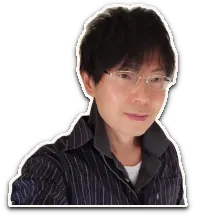
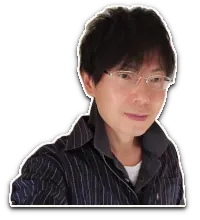
誕生秘話とあとがきを更新

diff --git a/00/pr_026_11.html b/00/pr_026_11.html
@@ -99,7 +99,7 @@
 
     <div><p class="先頭装飾 拡大 ▼" style="--待機: 0.2s;"
             data-sw = "0.2"
-            data-se = "../se/haretu_l.mp3"
+            data-se = "../se/haretu_h.mp3"
             data-sv = "0.1">
             宇宙よろず相談室が生まれたのは、ある意味必然といえます。<br>
             なぜなら、私が「<em>生まれついてワクワクする要素</em>」を詰め込んで、自分固有の周波数そのままに表現しているだけだから😍<span class="発光">✨</span>
@@ -107,9 +107,9 @@
 
     <div><p class="拡大 ▼" style="--待機: 0.4s;"
             data-sw = "0.4"
-            data-se = "../se/haretu_l.mp3"
+            data-se = "../se/kodutumi.mp3"
             data-sv = "0.1">
-            子供の頃から、関心を持った分野を数年間遊び尽くすと満足して飽きる、を繰り返していた私が、何十年味わい尽くしても無限に飽きないのが「<ruby><em>霊性</em><rt>スピリチュアリティ</rt></ruby>」の分野です。
+            子供の頃から、関心を持った分野を数年間遊び尽くして満足すると飽きる、を繰り返していた私が、何十年味わい尽くしても無限に飽きないのが「<ruby><em class="大字">霊性</em><rt>スピリチュアリティ</rt></ruby>」の分野です。
     </p></div>
 
     <div><p class="拡大 ▼" style="--待機: 0.6s;"
@@ -117,12 +117,12 @@
             data-se = "../se/haretu_l.mp3"
             data-sv = "0.1">
             私が今回地球にやって来た人生のテーマと大きな関係があると思われます。<br>
-            <span class="小字 銀 出現 ▼" style="--時間: 2s;">（かつて、あらゆる古典から宗教・思想・チャネリングまで、むさぼり読み尽くしました📚）</span>
+            <span class="小字 銀 出現 ▼" style="--時間: 2s;">（かつて、あらゆる古典から宗教・思想・チャネリングまで、むさぼるように読み尽くしました📚）</span>
     </p></div>
 
     <div><p class="拡大 ▼ 改幅5" style="--待機: 0.8s;"
             data-sw = "0.8"
-            data-se = "../se/haretu_l.mp3"
+            data-se = "../se/haretu_h.mp3"
             data-sv = "0.1">
             内側で爆発しているエネルギーを形として表現できることは、本当に幸せです<span class="発光">🌟</span><br>
             掘れば掘るほど、未だ知らない自分を発見し、新鮮な喜びを感じます。<br>
@@ -136,7 +136,7 @@
 
     <div><p class="先頭装飾 拡大 ▼" style="--待機: 0.2s;"
             data-sw = "0.2"
-            data-se = "../se/haretu_l.mp3"
+            data-se = "../se/haretu_h.mp3"
             data-sv = "0.1">
             とにかく「<em>表現すること</em>」が大好きで、それを子供の時に強く自覚したのは、図画工作✂とコンピュータープログラム🖥<br>
             特にプログラムを組んでゲームを作り、自分の思い通りの世界観を表現することは、寝食を忘れるほど没頭していたものです。
@@ -153,9 +153,9 @@
 
     <div><p class="拡大 ▼" style="--待機: 0.6s;"
             data-sw = "0.6"
-            data-se = "../se/haretu_l.mp3"
+            data-se = "../se/tameiki_s.mp3"
             data-sv = "0.1">
-            十数年に及ぶ自己啓発の執筆や書評やウェブサイト（Dr.YOU とユニちゃんの元ネタ）の運営終了をきっかけに、そこから十数年、まったくなじめない地球の集合意識（有限と恐れの同意を基にした社会体系）と共に生きる期間に入ります。
+            十数年に及ぶ自己啓発の執筆や書評やウェブサイト<span class="小字"> ( Dr.YOU とユニちゃんの元ネタ) </span>の運営終了をきっかけに、そこから十数年、まったくなじめない地球の集合意識<span class="小字"> (有限と恐れの同意を基にした社会体系) </span>と共に生きる期間に入ります。
     </p></div>
 
     <div><p class="拡大 ▼ 改幅5" style="--待機: 0.8s;"
@@ -172,7 +172,7 @@
 
     <div><p class="先頭装飾 拡大 ▼" style="--待機: 0.2s;"
             data-sw = "0.2"
-            data-se = "../se/haretu_l.mp3"
+            data-se = "../se/haretu_h.mp3"
             data-sv = "0.1">
             こうして長い期間をかけて、今では確固たる自分らしさを確立しながら、同時に地球人の悩みや苦しみも理解する私が出来上がったわけです。<br>
             <span class="小字 銀 出現 ▼" style="--時間: 2s;">（ちなみに、こういう魂は1945年頃から地球規模で増加しているので、もしかしたら、じつはあなたやあなたの隣人もそうかも？🌏）</span>
@@ -180,16 +180,16 @@
 
     <div><p class="拡大 ▼" style="--待機: 0.4s;"
             data-sw = "0.4"
-            data-se = "../se/haretu_l.mp3"
+            data-se = "../se/danryoku_l.mp3"
             data-sv = "0.1">
-            ただ、真面目なスピリチュアルコンテンツは古いものから新しいものまで山ほどありますが、今ではあまり見る気がしなくて…🥱<span class="小字">ﾌﾜｧ</span>
+            ただ、スピリチュアル・コンテンツは古いものから新しいものまで山ほどありますが、もうありきたりなものでは満足できなくて…🥱<span class="小字">ﾌﾜｧ</span>
     </p></div>
 
     <div><p class="拡大 ▼ 改幅5" style="--待機: 0.6s;"
             data-sw = "0.6"
-            data-se = "../se/haretu_l.mp3"
+            data-se = "../se/kodutumi.mp3"
             data-sv = "0.1">
-            それなら、「<em>100%自分好み</em>」なこだわりコンテンツを作れば、そのプロセスを無限に楽しめるぞ！🤩 という着想に至ったわけです<span class="発光">💡</span>
+            それなら、100%自分好みなお笑いコンテンツを作れば、このプロセスを無限に楽しめるぞ！🤩 という着想に至ったわけです<span class="発光">💡</span>
     </p></div>
 
     <div class="画像">
@@ -199,9 +199,9 @@
 
     <div><p class="先頭装飾 拡大 ▼" style="--待機: 0.2s;"
             data-sw = "0.2"
-            data-se = "../se/haretu_l.mp3"
+            data-se = "../se/haretu_h.mp3"
             data-sv = "0.1">
-            インターネットコンテンツは今や動画全盛の時代ですが、大好きなウェブサイト制作の世界に十数年ぶりに帰ってきて、その技術がじつはすごい進歩を遂げていることを知って、ワクワクしています！<br>
+            インターネット・コンテンツは今や動画全盛の時代ですが、大好きなウェブサイト制作の世界に十数年ぶりに帰ってきて、その表現技術がじつはすごい進歩を遂げていることを知って、ワクワクしています！<br>
             下手な絵を描くのも久しぶり😁
     </p></div>
 
@@ -214,18 +214,22 @@
 
     <div><p class="拡大 ▼ 改幅5" style="--待機: 0.6s;"
             data-sw = "0.6"
-            data-se = "../se/haretu_l.mp3"
+            data-se = "../se/haretu_h.mp3"
             data-sv = "0.1">
             あなたにも一緒に彼らを可愛がってもらえると、心より嬉しいです‼‼‼
     </p></div>
 
-    <div class="画像 発光 出現 ▼"
+    <div class="画像 発光 出現 ▼" style="max-width: calc(310px + (var(--画像サイズ, 4) * 10px));"
         data-th = "0.5"
         data-se = "../se/moso.mp3">
         <img src="../pc/pr_026_11.webp" alt="秋の公園を散策">
+        <img src="../pc/pr_026_11_dc.webp" alt="🥸"
+            class="差分 出現 ▼" style="--待機: 0.4s; max-width: calc(123px + (var(--画像サイズ, 4) * 3px)); left: 0;">
+        <img src="../pc/pr_026_11_un.webp" alt="🐰"
+            class="差分 出現 ▼" style="--待機: 0.6s; max-width: calc(123px + (var(--画像サイズ, 4) * 3px)); left: 15%; top: 30%;">
     </div>
 
-    <p class="右寄 小字 銀 出現 ▼ 改幅100">2026年11月 近影</p>
+    <p class="右寄 極小 銀 出現 ▼ 改幅100" style="max-width: calc(310px + (var(--画像サイズ, 4) * 10px));">2026年11月 近影</p>
 
 
     <div class="夜景"></div>

diff --git a/00/oa_001_03.html b/00/oa_001_03.html
@@ -93,7 +93,7 @@
             data-sw = "0.2"
             data-se = "../se/slide_h.mp3"
             data-sv = "0.2">
-            というわけで、「宇宙よろず相談室」、最後まで見て（聴いて）いただき、ありがとうございました‼‼‼
+            というわけで、「宇宙よろず相談室」、最後まで見て(聴いて)いただき、ありがとうございました‼‼‼
     </p></div>
 
     <div><p class="横滑 ▼" style="--待機: 0.4s; --方向: -1;"
@@ -119,18 +119,18 @@
             data-se = "../se/slide_l.mp3"
             data-sv = "0.2">
             まず、ON AIR #001 が生まれたきっかけをば。<br>
-            <span class="小字 銀 出現 ▼" style="--時間: 2s;">（本作全体のきっかけについては、<a href="pr_026_11.html" class="金 下線">UNI-CH、誕生秘話</a> をご覧ください）</span>
+            <span class="小字 銀 出現 ▼" style="--時間: 2s;">（本作全体のきっかけについては、🎉<a href="pr_026_11.html" class="金 下線">UNI-CH、誕生秘話</a> をご覧ください）</span>
     </p></div>
 
     <div><p class="横滑 ▼" style="--待機: 0.2s; --方向: -1;"
             data-sw = "0.2"
             data-se = "../se/slide_l.mp3"
             data-sv = "0.2">
-            私の創作手順では、まず始めに「キャラクター」を作ります。<br>
-            作者の意思とは無関係に自由に動きしゃべるキャラクター（周波数）を。
+            私の創作手順では、まず始めに「キャラクター」を決めます。<br>
+            作者の意思とは無関係に自由に動きしゃべるキャラクター<span class="小字">(周波数)</span>を。
     </p></div>
 
-    <div><p class="横滑 ▼ 改幅5" style="--待機: 0.4s;"
+    <div><p class="横滑 ▼" style="--待機: 0.4s;"
             data-sw = "0.4"
             data-se = "../se/slide_l.mp3"
             data-sv = "0.2">
@@ -141,14 +141,17 @@
         <div class="👤" style="position: relative;">
             <div class="キャラ画像 身体_縦伸" style="--サイズ: -8%; --被り幅: -5px;">
                 <img src="../ch/kk_026_11.webp" alt="👤">
+                <img src="../ch/ut_sabun_denkyu.webp" alt="💡" class="差分 発射" style="--起点: 50% 50%; margin: -20% 0 0 15%;">
             </div>
 
             <img src="../pc/tomo_kou.jpg" alt="ともしび仙人とこうじうさぎ"
-                class="出現 ▼" style="--待機: 2s; --時間: 3s; --透明度: 0.6; position: absolute; top: -60px; right: 0;">
+                class="出現 ▼" style="--待機: 3s; --時間: 3s; --透明度: 0.6; position: absolute; top: -25px; right: 0; max-width: calc(30% + (var(--画像サイズ, 4) * 2%));"
+                data-sw = "3"
+                data-se = "../se/moso.mp3">
 
             <div class  = "💬 感情 小字" style="--左尻尾: 0px;"
                 data-vv = "0.5"
-                data-se = "../se/moso.mp3">
+                data-se = "../se/hirameki.mp3">
                 むか〜し<br>書いていて楽しかった「とも◯び仙人」というエッチでおバカなキャラクターがいたな…<br>
                 よし、セルフ・オマージュしよう！<br>
                 うん、今回は形而上学者のオタク廃人とか、めっちゃ楽しそーだぞ♪
@@ -172,12 +175,15 @@
             ユニちゃん社長がうさぎの着ぐるみを着ているのも、と◯しび仙人の相方がうさぎだったからという、ただそれだけの理由🤭
     </p></div>
 
+    <p style="padding: 0;">
+        <img src="../pc/dc_001_02.webp" alt="Dr.YOU 初描き" align="right"
+            class="出現 ▼" style="--待機: 1s; --透明度: 0.5; margin: -2rem 0 -2rem -2rem; max-width: calc(30% + (var(--画像サイズ, 4) * 2%));">
+    </p>
+
     <div><p class="横滑 ▼" style="--待機: 0.4s;"
             data-sw = "0.4"
             data-se = "../se/slide_l.mp3"
             data-sv = "0.2">
-            <img src="../pc/dc_001_02.webp" alt="Dr.YOU 初描き" align="right"
-                class="出現 ▼" style="--待機: 1s; --時間: 1s; --透明度: 0.6; margin: -2rem 0 0 1rem;">
             ひょいと Dr.YOU のデザインを試し描きしたら、なんか勝手に「萌えフィギュア」を持っていたので、自動的に今回の「偶像崇拝」というテーマが生まれました。
     </p></div>
 
@@ -197,21 +203,21 @@
     <div><p class="先頭装飾 横滑 ▼"
             data-se = "../se/slide_m.mp3"
             data-sv = "0.2">
-            今後も基本的に1話完結方式で、それを全話無料で配信します。
+            今後も基本的に１話完結方式で、それを<em>全話無料</em>で配信します。
     </p></div>
 
     <div><p class="横滑 ▼" style="--待機: 0.2s; --方向: -1;"
             data-sw = "0.2"
             data-se = "../se/slide_l.mp3"
             data-sv = "0.2">
-            「じゃあ、継続していくための収益はどーするの？」と思われるかもしれませんが、毎回番外編として「<em>配信後の楽屋裏</em>（有料）」を用意します。
+            「じゃあ、コンテンツを継続していくための収益はどーするの？」と思われるかもしれませんが、毎回番外編として「<em>配信後の楽屋裏</em> (有料)」を用意します。
     </p></div>
 
     <div><p class="横滑 ▼" style="--待機: 0.4s;"
             data-sw = "0.4"
             data-se = "../se/slide_l.mp3"
             data-sv = "0.2">
-            楽屋裏は、「本配信を気に入ってくださった方向けのファンサービス」として、ユル〜いお遊び的な位置づけです。
+            楽屋裏は、「本配信を気に入ってくださったかた向けのファンサービス」として、ユル〜いお遊び的な位置づけです。
     </p></div>
 
     <div><p class="横滑 ▼ 改幅5" style="--待機: 0.6s; --方向: -1;"

diff --git a/00/oa_001_02.html b/00/oa_001_02.html
@@ -301,7 +301,7 @@
             data-sw = "0.2"
             data-se = "../se/slide_h.mp3"
             data-sv = "0.2">
-            というわけで、「宇宙よろず相談室」、最後まで見て（聴いて）いただき、ありがとうございました‼‼‼
+            というわけで、「宇宙よろず相談室」、最後まで見て(聴いて)いただき、ありがとうございました‼‼‼
     </p></div>
 
     <div><p class="横滑 ▼" style="--待機: 0.4s; --方向: -1;"
@@ -327,18 +327,18 @@
             data-se = "../se/slide_l.mp3"
             data-sv = "0.2">
             まず、ON AIR #001 が生まれたきっかけをば。<br>
-            <span class="小字 銀 出現 ▼" style="--時間: 2s;">（本作全体のきっかけについては、<a href="pr_026_11.html" class="金 下線">UNI-CH、誕生秘話</a> をご覧ください）</span>
+            <span class="小字 銀 出現 ▼" style="--時間: 2s;">（本作全体のきっかけについては、🎉<a href="pr_026_11.html" class="金 下線">UNI-CH、誕生秘話</a> をご覧ください）</span>
     </p></div>
 
     <div><p class="横滑 ▼" style="--待機: 0.2s; --方向: -1;"
             data-sw = "0.2"
             data-se = "../se/slide_l.mp3"
             data-sv = "0.2">
-            私の創作手順では、まず始めに「キャラクター」を作ります。<br>
-            作者の意思とは無関係に自由に動きしゃべるキャラクター(周波数)を。
+            私の創作手順では、まず始めに「キャラクター」を決めます。<br>
+            作者の意思とは無関係に自由に動きしゃべるキャラクター<span class="小字">(周波数)</span>を。
     </p></div>
 
-    <div><p class="横滑 ▼ 改幅5" style="--待機: 0.4s;"
+    <div><p class="横滑 ▼" style="--待機: 0.4s;"
             data-sw = "0.4"
             data-se = "../se/slide_l.mp3"
             data-sv = "0.2">
@@ -349,14 +349,17 @@
         <div class="👤" style="position: relative;">
             <div class="キャラ画像 身体_縦伸" style="--サイズ: -8%; --被り幅: -5px;">
                 <img src="../ch/kk_026_11.webp" alt="👤">
+                <img src="../ch/ut_sabun_denkyu.webp" alt="💡" class="差分 発射" style="--起点: 50% 50%; margin: -20% 0 0 15%;">
             </div>
 
             <img src="../pc/tomo_kou.jpg" alt="ともしび仙人とこうじうさぎ"
-                class="出現 ▼" style="--待機: 2s; --時間: 3s; --透明度: 0.6; position: absolute; top: -60px; right: 0;">
+                class="出現 ▼" style="--待機: 3s; --時間: 3s; --透明度: 0.6; position: absolute; top: -25px; right: 0; max-width: calc(30% + (var(--画像サイズ, 4) * 2%));"
+                data-sw = "3"
+                data-se = "../se/moso.mp3">
 
             <div class  = "💬 感情 小字" style="--左尻尾: 0px;"
                 data-vv = "0.5"
-                data-se = "../se/moso.mp3">
+                data-se = "../se/hirameki.mp3">
                 むか〜し<br>書いていて楽しかった「とも◯び仙人」というエッチでおバカなキャラクターがいたな…<br>
                 よし、セルフ・オマージュしよう！<br>
                 うん、今回は形而上学者のオタク廃人とか、めっちゃ楽しそーだぞ♪
@@ -380,12 +383,15 @@
             ユニちゃん社長がうさぎの着ぐるみを着ているのも、と◯しび仙人の相方がうさぎだったからという、ただそれだけの理由🤭
     </p></div>
 
+    <p style="padding: 0;">
+        <img src="../pc/dc_001_02.webp" alt="Dr.YOU 初描き" align="right"
+            class="出現 ▼" style="--待機: 1s; --透明度: 0.5; margin: -2rem 0 -2rem -2rem; max-width: calc(30% + (var(--画像サイズ, 4) * 2%));">
+    </p>
+
     <div><p class="横滑 ▼" style="--待機: 0.4s;"
             data-sw = "0.4"
             data-se = "../se/slide_l.mp3"
             data-sv = "0.2">
-            <img src="../pc/dc_001_02.webp" alt="Dr.YOU 初描き" align="right"
-                class="出現 ▼" style="--待機: 1s; --時間: 1s; --透明度: 0.6; margin: -2rem 0 0 1rem;">
             ひょいと Dr.YOU のデザインを試し描きしたら、なんか勝手に「萌えフィギュア」を持っていたので、自動的に今回の「偶像崇拝」というテーマが生まれました。
     </p></div>
 
@@ -405,21 +411,21 @@
     <div><p class="先頭装飾 横滑 ▼"
             data-se = "../se/slide_m.mp3"
             data-sv = "0.2">
-            今後も基本的に1話完結方式で、それを全話無料で配信します。
+            今後も基本的に１話完結方式で、それを<em>全話無料</em>で配信します。
     </p></div>
 
     <div><p class="横滑 ▼" style="--待機: 0.2s; --方向: -1;"
             data-sw = "0.2"
             data-se = "../se/slide_l.mp3"
             data-sv = "0.2">
-            「じゃあ、継続していくための収益はどーするの？」と思われるかもしれませんが、毎回番外編として「<em>配信後の楽屋裏</em> (有料)」を用意します。
+            「じゃあ、コンテンツを継続していくための収益はどーするの？」と思われるかもしれませんが、毎回番外編として「<em>配信後の楽屋裏</em> (有料)」を用意します。
     </p></div>
 
     <div><p class="横滑 ▼" style="--待機: 0.4s;"
             data-sw = "0.4"
             data-se = "../se/slide_l.mp3"
             data-sv = "0.2">
-            楽屋裏は、「本配信を気に入ってくださった方向けのファンサービス」として、ユル〜いお遊び的な位置づけです。
+            楽屋裏は、「本配信を気に入ってくださったかた向けのファンサービス」として、ユル〜いお遊び的な位置づけです。
     </p></div>
 
     <div><p class="横滑 ▼ 改幅5" style="--待機: 0.6s; --方向: -1;"

diff --git a/00/oa_001.html b/00/oa_001.html
@@ -137,7 +137,7 @@
                 </div>
                 <div class="タップ済">
                     現在、効果音付きでお楽しみいただけます。<br>
-                    変更・調整したい時は、画面右上の<em>ラジオ</em>を<span class="操作">タップ</span>して、お好みの設定にできます。
+                    変更したい時は、画面右上の<em>ラジオ</em>を<span class="操作">タップ</span>して、お好みの設定にできます。
                 </div>
             </div>
         </div>
@@ -167,19 +167,19 @@
         </div>
     </div>
 
-    <div><p class="白枠 横滑 ▼" style="--待機: 0.2s; margin-top: -1.75rem;"
-            data-sw = "0.2"
-            data-se = "../se/slide_m.mp3"
+    <div><p class="白枠 横滑 ▼" style="--待機: 0.4s; margin-top: -1.75rem;"
+            data-sw = "0.4"
+            data-se = "../se/slide_h.mp3"
             data-sv = "0.2">
             <b class="黒枠 金"><span class="極大">D</span>r. YOU (ドクター・ユー)</b>
     </p></div>
 
-    <p class="出現 ▼" style="--待機: 0.4s;">
+    <p class="出現 ▼" style="--待機: 0.6s;">
         世界でも指折りの<em>形而上学博士</em> (Ph.D. in Philosophy)
         らしいが、それ以上に日本のオタク文化に沼りすぎて生活もままならない<em>社会不適合者</em>。
     </p>
 
-    <p class="出現 改幅10 ▼" style="--待機: 0.6s;">
+    <p class="出現 改幅10 ▼" style="--待機: 0.8s;">
         だが、その不適合ぶりを全力で<em>自愛</em>する姿は、人生を深刻にとらえて悩めるリスナーたちに安らぎをもたらしているとかいないとか。
     </p>
 
@@ -191,19 +191,19 @@
         </div>
     </div>
 
-   <div><p class="白枠 横滑 ▼" style="--待機: 0.2s; margin-top: -1.75rem;"
-            data-sw = "0.2"
-            data-se = "../se/slide_m.mp3"
+   <div><p class="白枠 横滑 ▼" style="--待機: 0.4s; margin-top: -1.75rem;"
+            data-sw = "0.4"
+            data-se = "../se/slide_h.mp3"
             data-sv = "0.2">
         <b class="黒枠 金"><span class="極大">ユ</span>ニちゃん社長 (ユニ・バース)</b>
     </p></div>
 
-    <p class="出現 ▼" style="--待機: 0.4s;">
+    <p class="出現 ▼" style="--待機: 0.6s;">
         わずか<em>５歳</em>にして、倒産寸前のラジオ局の跡を継いでしまった健気な幼女。<br>
         生活能力のないドクターを拾って彼女の番組にぶっこんだ結果、運よく人気番組となった。
     </p>
 
-    <p class="出現 ▼" style="--待機: 0.6s;">
+    <p class="出現 ▼" style="--待機: 0.8s;">
         <em>尊大なしゃべり</em>と<em>舌足らず</em>のミスマッチは、大きなお友達の支持を集めているとかいないとか。
     </p>
 
